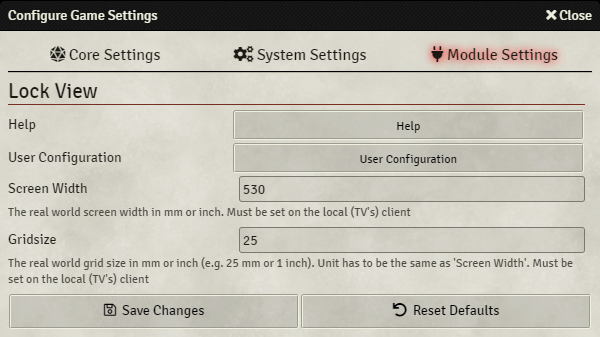
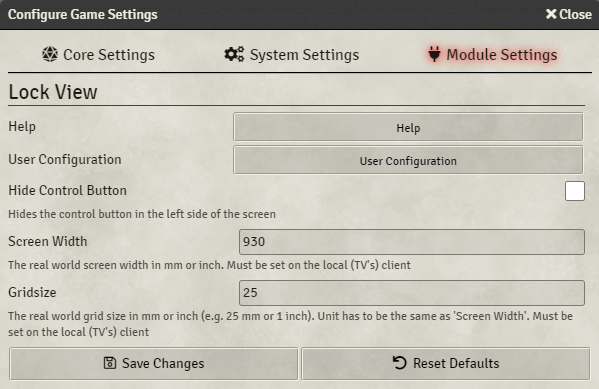
v1.5.1

diff --git a/lockview.js b/lockview.js
@@ -86,21 +86,36 @@ Hooks.on("renderPlayerList", (playerlist,init,users) => {
 
 async function setUI(hide) {
   sidebarCollapsed = hide;
-  if (getEnable(game.userId) && canvas.scene != undefined && canvas.scene.getFlag('LockView', 'hideUI')) {
+  if (!getEnable(game.userId) || canvas.scene == undefined) return;
+  
+
+  
     uiHidden = hide;
     let hideUIelements = {};
-    if (canvas.scene.data.flags["LockView"].hideUIelements){
-      hideUIelements = await canvas.scene.getFlag('LockView', 'hideUIelements');
-    } 
-    else hideUIelements = {
-      logo: true,
-      navigation: true,
-      controls: true,
-      players: true,
-      hotbar: true,
-      sidebar: false
+    if (canvas.scene.getFlag('LockView', 'hideUI')) {
+      if (canvas.scene.data.flags["LockView"].hideUIelements){
+        hideUIelements = await canvas.scene.getFlag('LockView', 'hideUIelements');
+      } 
+      else hideUIelements = {
+        logo: true,
+        navigation: true,
+        controls: true,
+        players: true,
+        hotbar: true,
+        sidebar: false
+      }
     }
-    
+    else {
+      hideUIelements = {
+        logo: false,
+        navigation: false,
+        controls: false,
+        players: false,
+        hotbar: false,
+        sidebar: false
+      }
+    }
+
     if (hide) {
       for (let element in hideUIelements) {
         if (hideUIelements?.[element]) {
@@ -122,7 +137,7 @@ async function setUI(hide) {
         }
       }
     }
-  }
+  
 }
 
 /**
@@ -371,7 +386,8 @@ export async function applySettings(force=false,forceInitial=true) {
  * Scale the canvas to fit the foundry window
  */
 export async function scaleToFit(force = 0){
-
+  //Get the flags for this scene
+  await getFlags();
   let horizontal;                                   //Stores whether the screen fills horizontally or vertically
   let sidebarOffset = 0;                            //Offset in pixels due to the presence of the sidebar
   const windowWidth = window.innerWidth;            //width of the foundry window

diff --git a/src/settings.js b/src/settings.js
@@ -25,6 +25,17 @@ export const registerSettings = function() {
     restricted: true
   });
 
+  //Hide the control button
+  game.settings.register(moduleName, "hideControlButton", {
+    name: "LockView.Sett.HideControlBtn",
+    hint: "LockView.Sett.HideControlBtn_Hint",
+    scope: "world",
+    config: true,
+    default: false,
+    type: Boolean,
+    onChange: x => window.location.reload()
+  });
+
   //Screen width of TV
   game.settings.register(moduleName, "ScreenWidth", {
     name: "LockView.Sett.ScreenWidth",
@@ -114,7 +125,7 @@ export class enableMenu extends FormApplication {
    */
   getData() {
     const users = game.users._source;
-    //const settings = game.settings.get(moduleName,'userSettings');
+    const settings = game.settings.get(moduleName,'userSettings');
     let data = [];
 
     for (let i=0; i<users.length; i++){
@@ -126,14 +137,16 @@ export class enableMenu extends FormApplication {
       else if (userData.role == 3) role = game.i18n.localize("USER.RoleAssistant");
       else if (userData.role == 4) role = game.i18n.localize("USER.RoleGamemaster");
 
+      const userSettings = settings.filter(u => u.id == userData._id)[0];
+
       const dataNew = {
         index: i,
         name: userData.name,
         role: role,
         color: userData.color,
         id: userData._id,
-        enable: getEnable(userData._id),
-        viewbox: getViewboxEnable(userData._id)
+        enable: userSettings.enable,
+        viewbox: userSettings.viewbox
 
       }
       data.push(dataNew);
@@ -192,6 +205,7 @@ export class enableMenu extends FormApplication {
    * @param {*} formData 
    */
   async _updateObject(event, formData) {
+
     let settings = [];
     let idArray = formData.id;
     if (Array.isArray(idArray) == false) {

diff --git a/templates/helpMenu.html b/templates/helpMenu.html
@@ -69,7 +69,9 @@
         In the module settings, as a GM you will find a button to open the user configuration screen, where you can enable control and viewbox for each user. By default, both are enabled for non-GM users.<br>
         Control must be enabled for each user if you want to use any of the functions of this module, except for displaying the viewbox, which has its own enable setting.<br>
         Besides enabling control and viewbox for each specific user, you can also override this and enable them based on their user role.<br>
-        <br>
+        <ul>
+            <li><b>Hide Control Button</b> - Enabling this will hide the control button (on the left side of the screen). This can be useful if this control button is never used, and will prevent it from cluttering the screen.</li>
+        </ul>
         All connected users will also see two more settings which are only relevant if 'Autoscaling' is set to 'Physical Gridsize' (see below), as these settings allow the module to calculate the correct grid scale.<br>
         These settings are:
         <ul>

diff --git a/src/controlButtons.js b/src/controlButtons.js
@@ -1,3 +1,4 @@
+import { moduleName } from "../lockview.js";
 import { compatibleCore, getEnable } from "./misc.js";
 import { getFlags, setBlocks, updatePanLock, updateZoomLock, updateBoundingBox, lockPan, lockZoom, boundingBox, _onMouseWheel_Default } from "./blocks.js";
 import * as VIEWBOX from "./viewbox.js";
@@ -58,7 +59,7 @@ class LockViewLayer extends CanvasLayer {
  * Push the Lock View control buttons
  */
 export function pushControlButtons(controls){
-  if (game.user.isGM == false || canvas == null) return;
+  if (game.user.isGM == false || canvas == null || game.settings.get(moduleName,'hideControlButton')) return;
 
   getFlags();
 

diff --git a/README.md b/README.md
@@ -60,12 +60,14 @@ but can show some padding)<br>
 In the module settings, as a GM you will find a button to open the user configuration screen, where you can enable control and viewbox for each user. By default, both are enabled for non-GM users.<br>
 Control must be enabled for each user if you want to use any of the functions of this module, except for displaying the viewbox, which has its own enable setting.<br>
 Besides enabling control and viewbox for each specific user, you can also override this and enable them based on their user role.<br>
-<br>
+<ul>
+  <li><b>Hide Control Button</b> - Enabling this will hide the control button (on the left side of the screen). This can be useful if this control button is never used, and will prevent it from cluttering the screen.</li>
+</ul>
 All connected users will also see two more settings which are only relevant if 'Autoscaling' is set to 'Physical Gridsize' (see below), as these settings allow the module to calculate the correct grid scale.<br>
 These settings are:
 <ul>
-<li><b>Screen Width</b> - Fill in the physical screen width in mm or inch of the TV</li>
-<li><b>Gridsize</b> - Fill in the desired gridsize in mm or inch (must be the same unit as 'Screen Width'). This is usually 25 mm or 1 inch</li>
+  <li><b>Screen Width</b> - Fill in the physical screen width in mm or inch of the TV</li>
+  <li><b>Gridsize</b> - Fill in the desired gridsize in mm or inch (must be the same unit as 'Screen Width'). This is usually 25 mm or 1 inch</li>
 </ul>
 
 ![moduleSettings](https://github.com/CDeenen/LockView/blob/master/img/examples/ModuleSettings.png)

diff --git a/changelog.md b/changelog.md
@@ -1,4 +1,17 @@
 # Changelog
+### v1.5.1 - 22-03-2022
+Fixes:
+<ul>
+<li>Fixed issue where zoom and pan lock would sometimes not be applied on scene load</li>
+<li>Fixed issue where switching from a scene with UI elements hidden to a scene with 'Hide UI Elements on Sidebar Collapse' disabled would not always show all UI elements</li>
+<li>Fixed issue where in the User Configuration, if an override was enabled, it also showed the setting as enabled for individual users</li>
+</li>
+
+Additions:
+<ul>
+<li>Added 'Hide Control Button' setting in the module settings</li>
+</ul>
+
 ### v1.5.0 - 30-12-2021
 Fixes:
 <ul>
